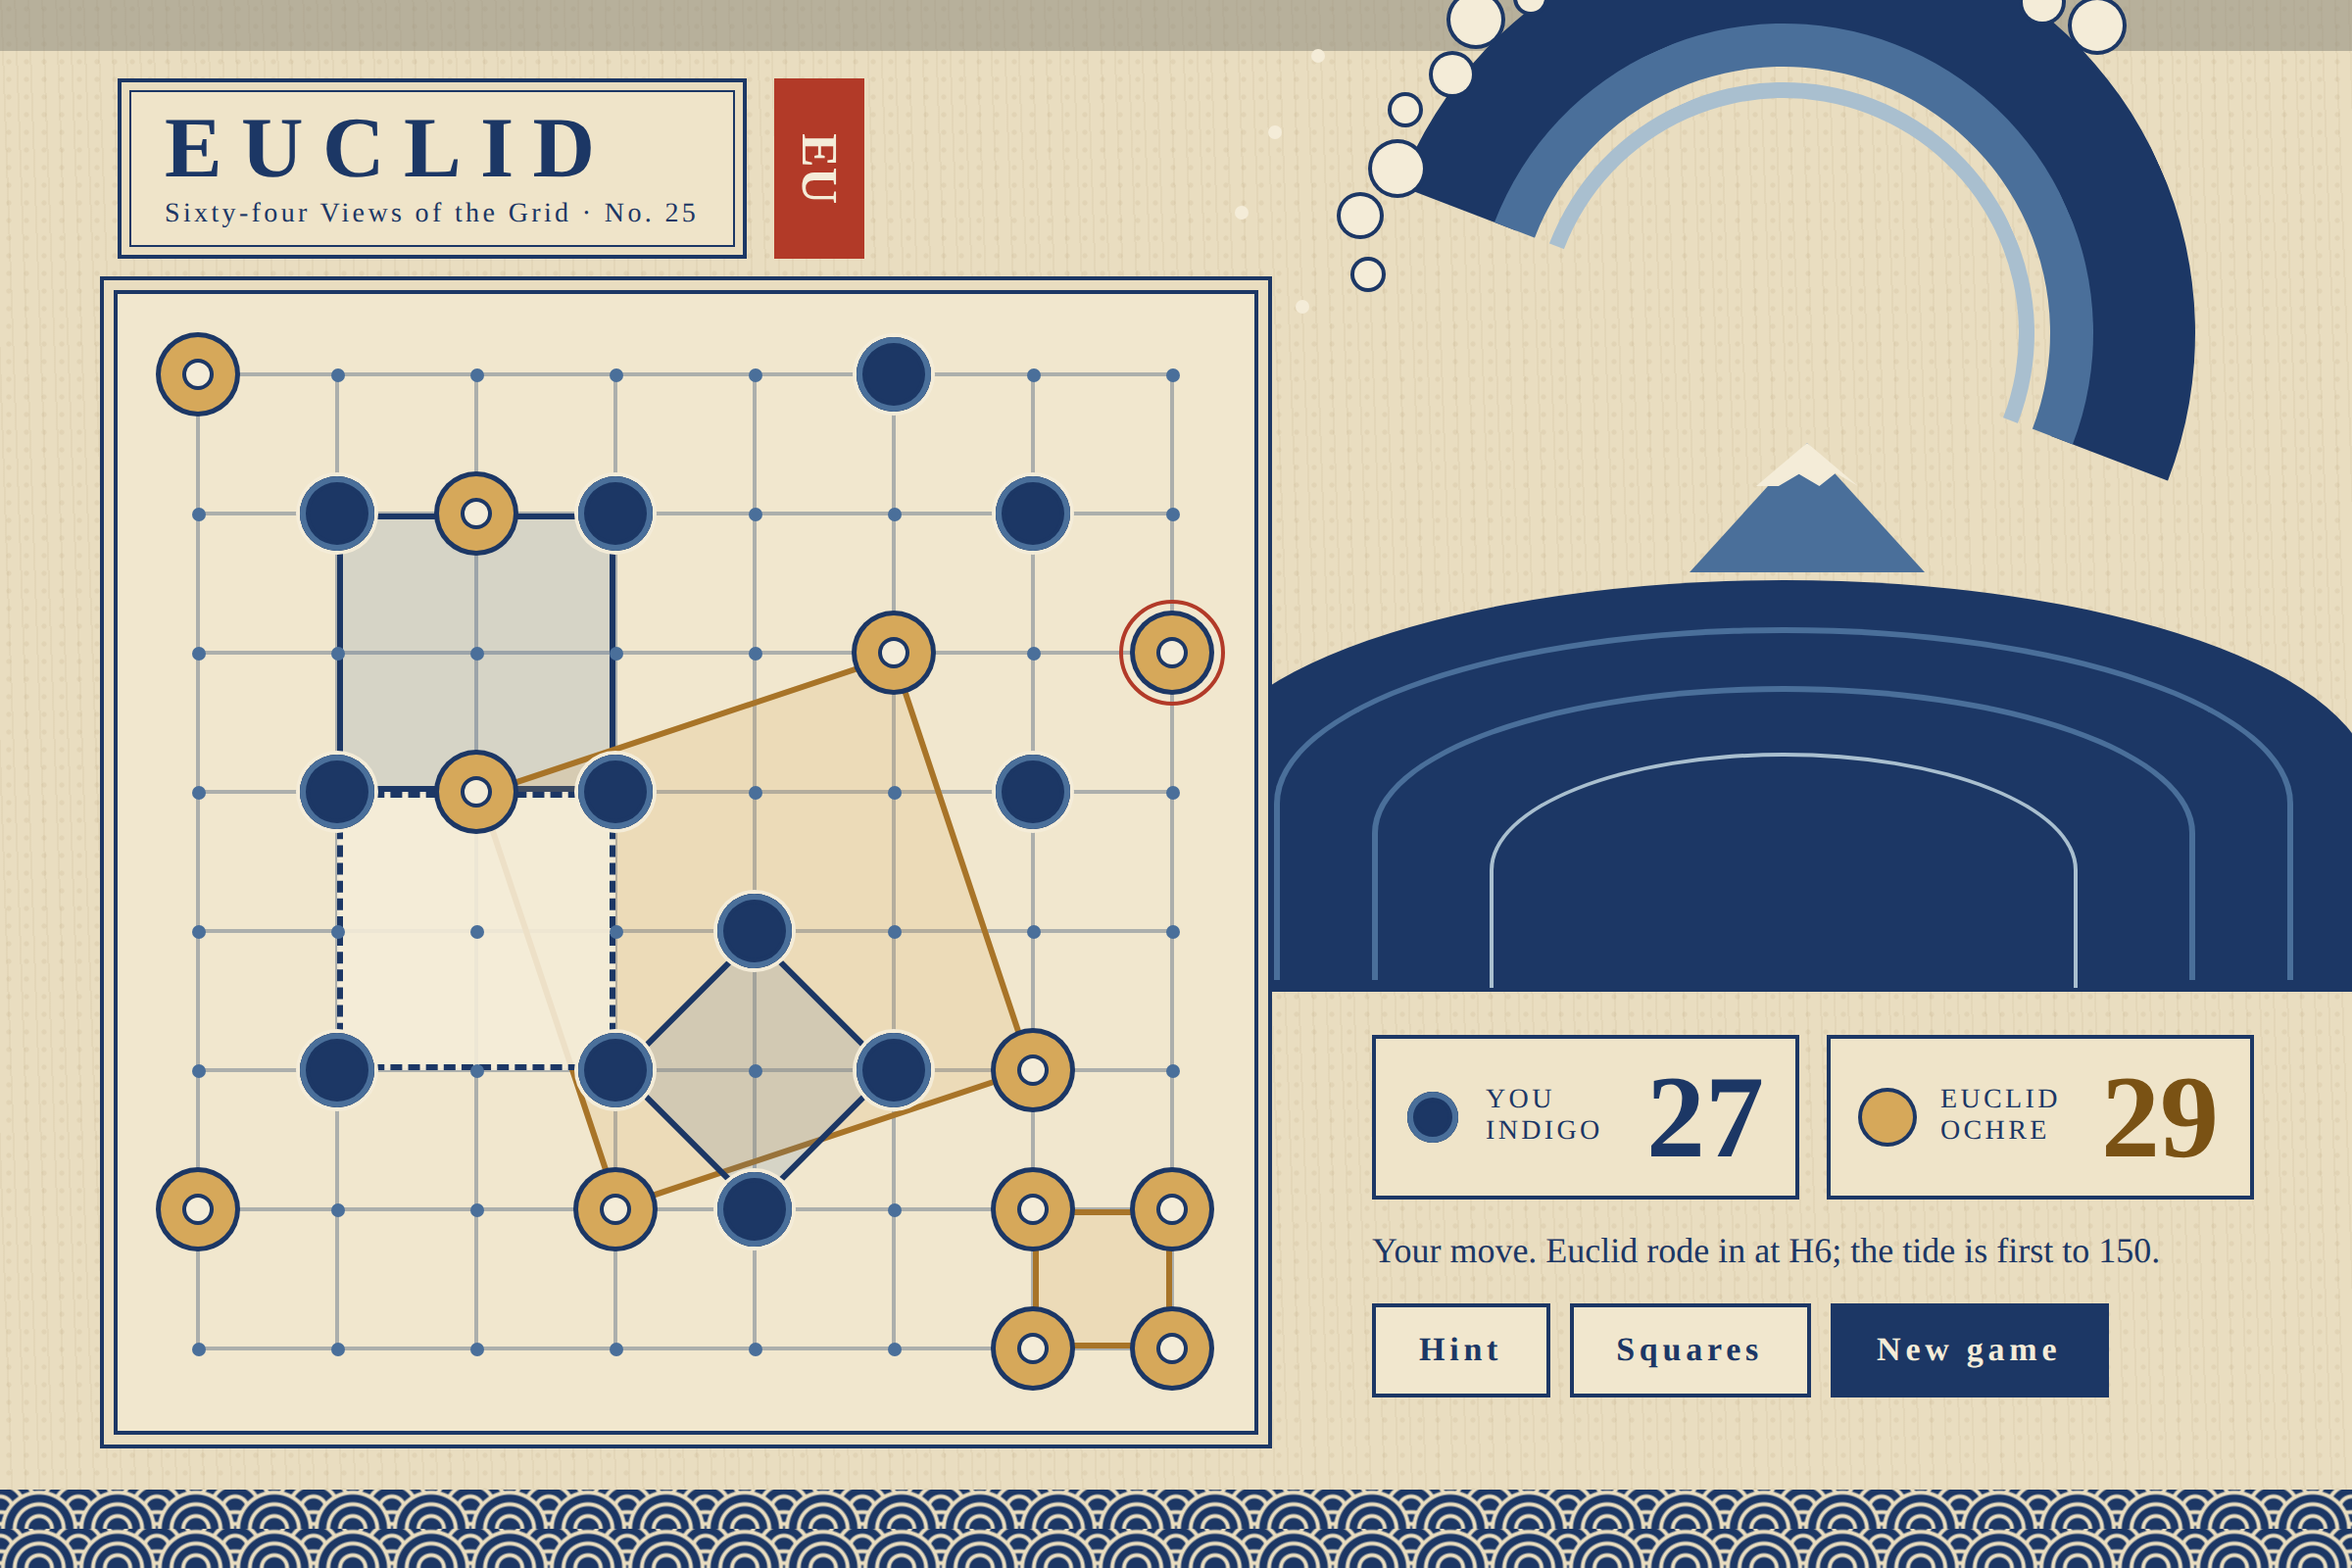
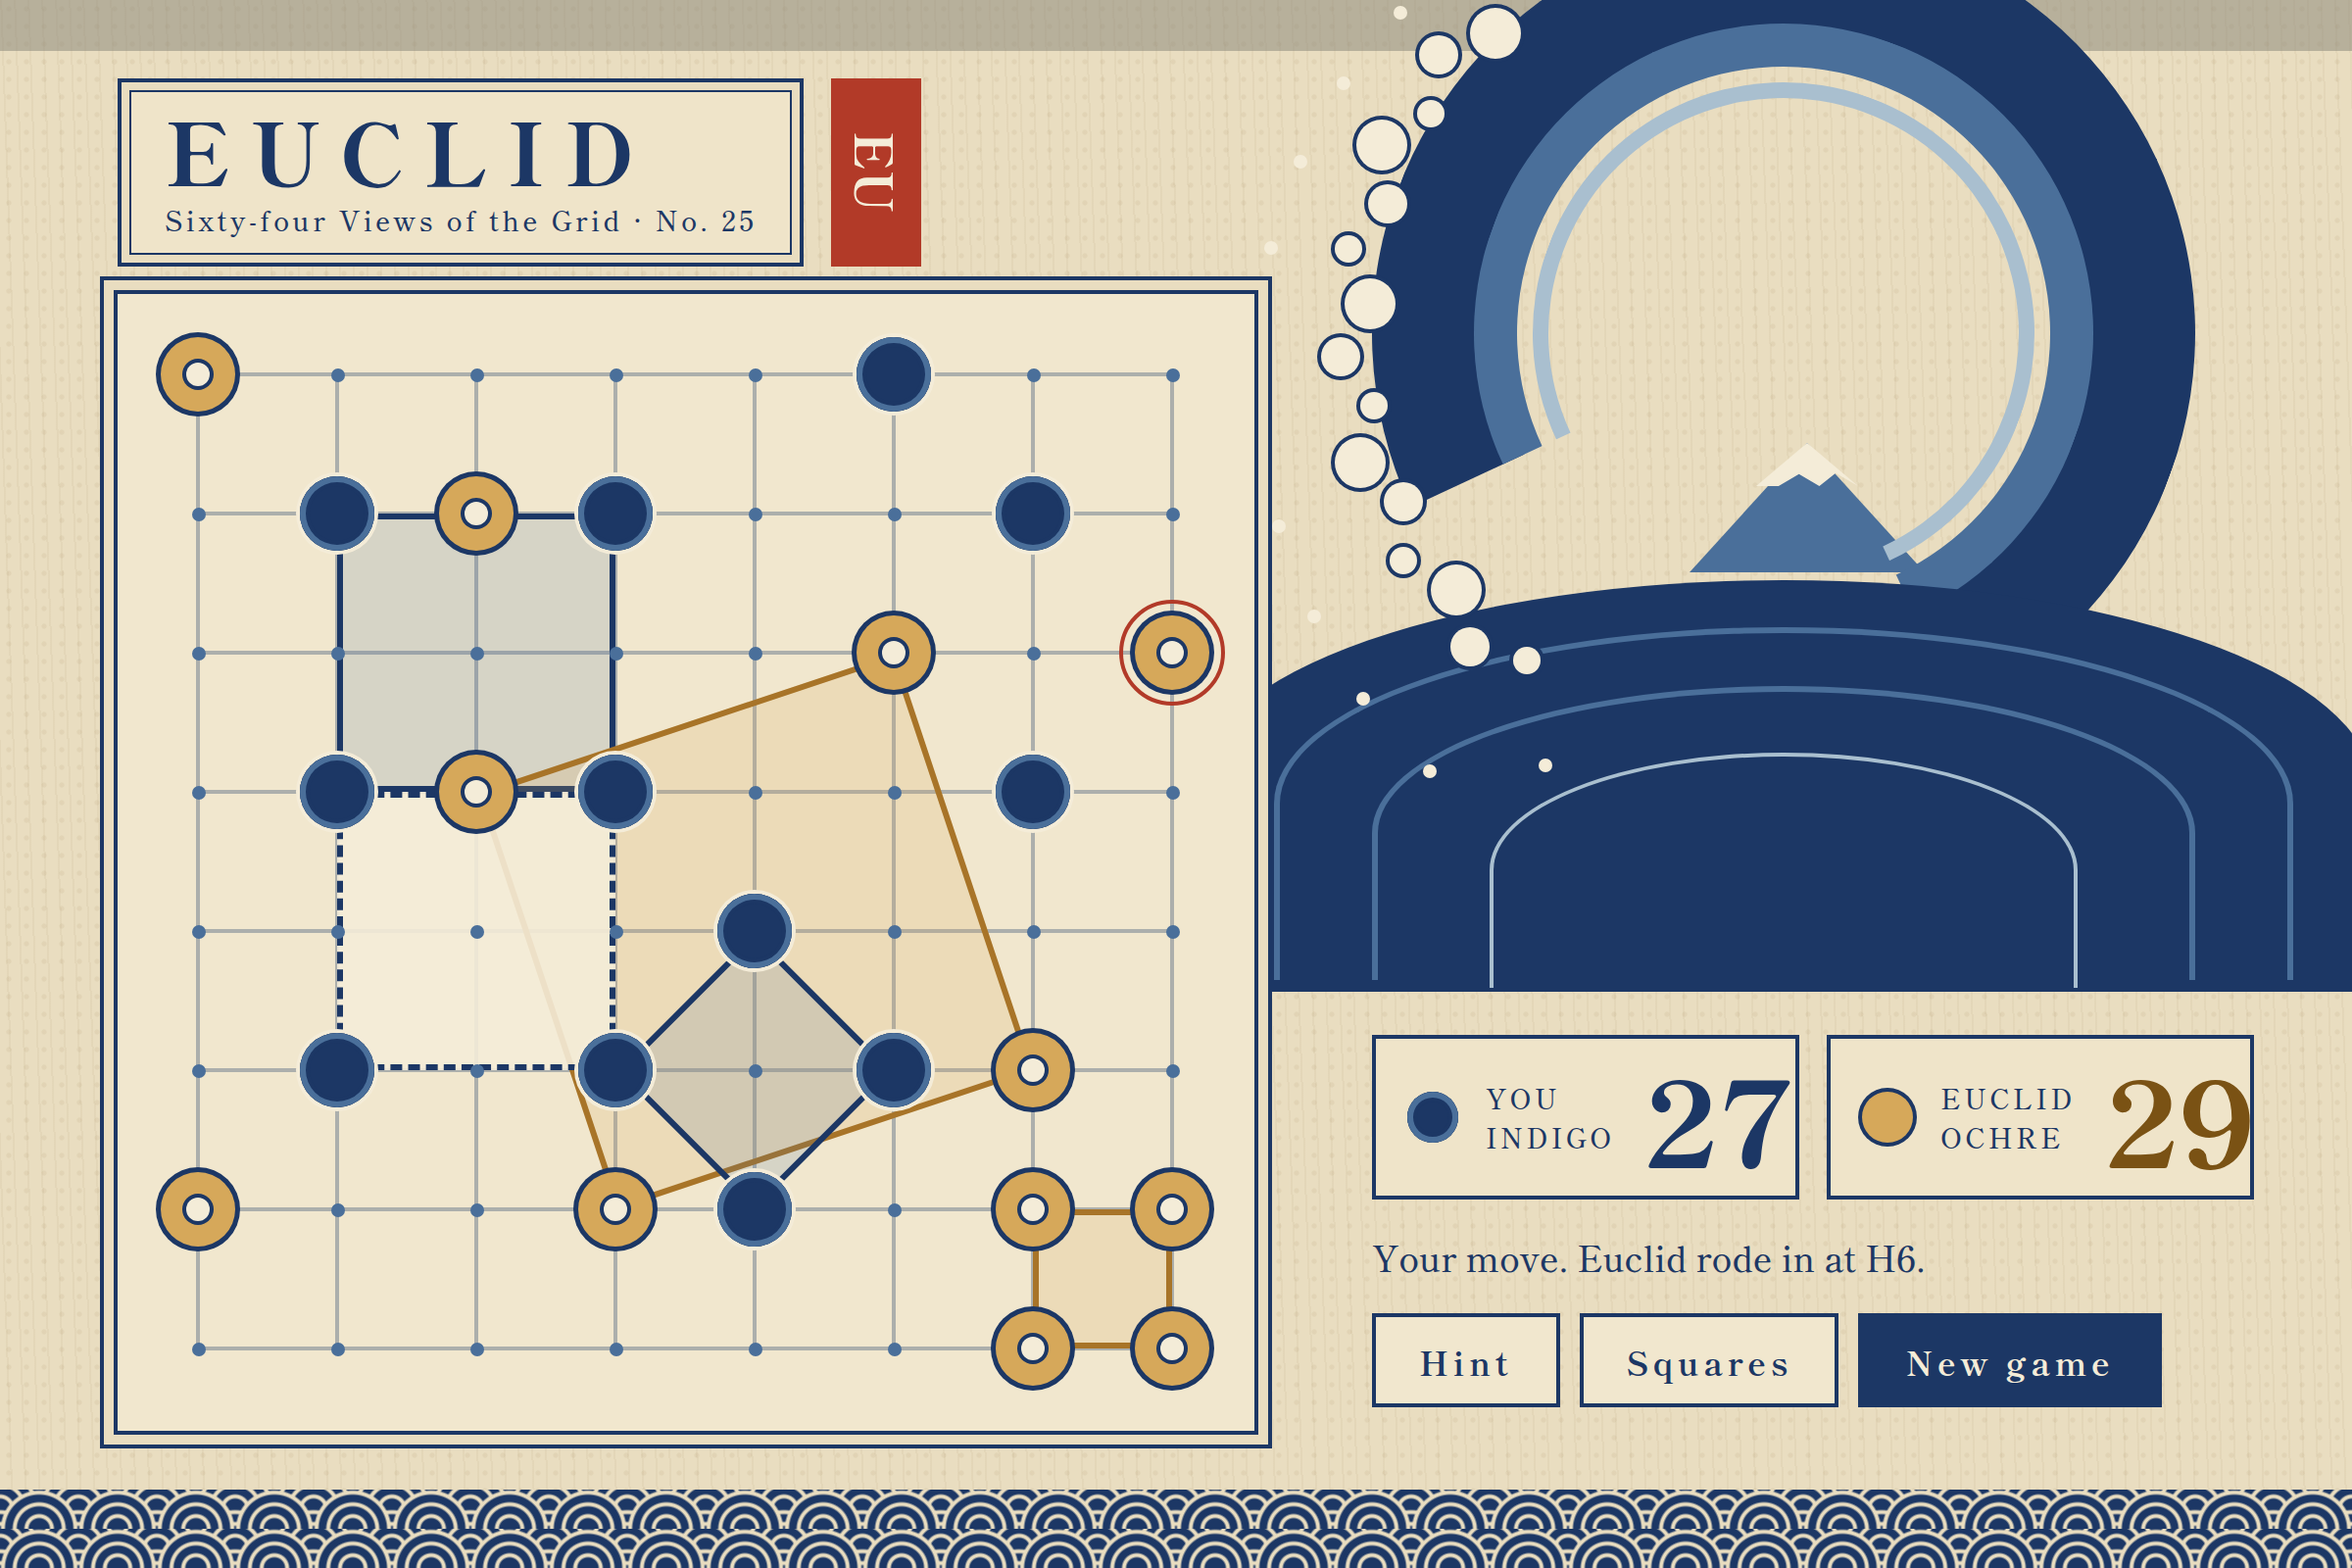
Turn the Great Wave arch into a breaking curl
The crest now rises from the swell, passes over Fuji and hooks down on
the left with its foam claws. Score chips keep their round markers, and
the status line fits on one row.

diff --git a/designs/source/11-great-wave.dc.html b/designs/source/11-great-wave.dc.html
@@ -26,9 +26,9 @@ a{color:#1C3765}a:hover{color:#B23A28}
   <div style="position: absolute; left: 862px; top: 226px; width: 120px; height: 66px; background: #4A6F9A; clip-path: polygon(50% 0, 100% 100%, 0 100%)"></div>
   <div style="position: absolute; left: 896px; top: 226px; width: 52px; height: 22px; background: #F4ECD8; clip-path: polygon(50% 0, 100% 100%, 78% 70%, 62% 100%, 42% 72%, 22% 100%, 0 100%)"></div>
 
-  <div style="position: absolute; left: 700px; top: -40px; width: 420px; height: 420px; border-radius: 50%; box-sizing: border-box; border: 64px solid #1C3765; border-bottom-color: transparent; border-left-color: transparent; transform: rotate(-24deg)"></div>
-  <div style="position: absolute; left: 752px; top: 12px; width: 316px; height: 316px; border-radius: 50%; box-sizing: border-box; border: 22px solid #4A6F9A; border-bottom-color: transparent; border-left-color: transparent; transform: rotate(-24deg)"></div>
-  <div style="position: absolute; left: 782px; top: 42px; width: 256px; height: 256px; border-radius: 50%; box-sizing: border-box; border: 8px solid #A9BFCF; border-bottom-color: transparent; border-left-color: transparent; transform: rotate(-24deg)"></div>
+  <div style="position: absolute; left: 700px; top: -40px; width: 420px; height: 420px; border-radius: 50%; box-sizing: border-box; border: 64px solid #1C3765; border-bottom-color: transparent; transform: rotate(20deg)"></div>
+  <div style="position: absolute; left: 752px; top: 12px; width: 316px; height: 316px; border-radius: 50%; box-sizing: border-box; border: 22px solid #4A6F9A; border-bottom-color: transparent; transform: rotate(20deg)"></div>
+  <div style="position: absolute; left: 782px; top: 42px; width: 256px; height: 256px; border-radius: 50%; box-sizing: border-box; border: 8px solid #A9BFCF; border-bottom-color: transparent; transform: rotate(20deg)"></div>
 
   <div style="position: absolute; left: 610px; top: 296px; width: 600px; height: 210px; border-radius: 50% 50% 0 0; background: #1C3765"></div>
   <div style="position: absolute; left: 650px; top: 320px; width: 520px; height: 180px; border-radius: 50% 50% 0 0; box-sizing: border-box; border: 3px solid #4A6F9A; border-bottom: 0"></div>
@@ -81,17 +81,17 @@ a{color:#1C3765}a:hover{color:#B23A28}
   <div style="position: absolute; left: 700px; top: 528px; width: 450px; display: flex; flex-direction: column; gap: 16px">
     <div style="display: grid; grid-template-columns: repeat(2, minmax(0, 1fr)); gap: 14px">
       <div style="border: 2px solid #1C3765; background: #EFE4C9; padding: 10px 16px; display: flex; align-items: center; gap: 14px">
-        <div style="width: 26px; height: 26px; border-radius: 50%; background: #1C3765; box-shadow: inset 0 0 0 3px #4A6F9A, inset 0 0 0 5px #1C3765"></div>
+        <div style="width: 26px; height: 26px; flex-shrink: 0; border-radius: 50%; background: #1C3765; box-shadow: inset 0 0 0 3px #4A6F9A, inset 0 0 0 5px #1C3765"></div>
         <div style="flex-grow: 1; font-size: 14px; letter-spacing: .12em">YOU<br>INDIGO</div>
         <div style="font-size: 60px; font-weight: 800; line-height: 1">27</div>
       </div>
       <div style="border: 2px solid #1C3765; background: #EFE4C9; padding: 10px 16px; display: flex; align-items: center; gap: 14px">
-        <div style="width: 26px; height: 26px; border-radius: 50%; background: #D6A85A; box-shadow: 0 0 0 2px #1C3765"></div>
+        <div style="width: 26px; height: 26px; flex-shrink: 0; border-radius: 50%; background: #D6A85A; box-shadow: 0 0 0 2px #1C3765"></div>
         <div style="flex-grow: 1; font-size: 14px; letter-spacing: .12em">EUCLID<br>OCHRE</div>
         <div style="font-size: 60px; font-weight: 800; line-height: 1; color: #7A5214">29</div>
       </div>
     </div>
-    <div style="font-size: 18px">Your move. Euclid rode in at H6; the tide is first to 150.</div>
+    <div style="font-size: 18px">Your move. Euclid rode in at H6.</div>
     <div style="display: flex; gap: 10px">
       <button class="wb">Hint</button>
       <button class="wb">Squares</button>
@@ -139,13 +139,13 @@ class Component extends DCLogic {
     // foam claws along the crest of the curl, centre (910,170)
     var foam = [], spray = [];
     for (var i = 0; i < 18; i++) {
-      var t = (-172 + i * 7.5) * Math.PI / 180;
-      var r = 214 + (i % 2 ? 10 : 0);
+      var t = (128 + i * 7) * Math.PI / 180;
+      var r = 212 + (i % 2 ? 14 : 0);
       var s = 14 + (i % 3) * 6;
       foam.push({ x: 910 + r * Math.cos(t), y: 170 + r * Math.sin(t), s: s, m: -s / 2 });
     }
     for (var j = 0; j < 14; j++) {
-      var u = (-176 + j * 9) * Math.PI / 180, rr = 250 + (j * 37 % 40);
+      var u = (120 + j * 10) * Math.PI / 180, rr = 250 + (j * 37 % 40);
       spray.push({ x: 910 + rr * Math.cos(u), y: 170 + rr * Math.sin(u) });
     }
     return { cells: L.cells, lines: L.lines, squares: L.squares, foam: foam, spray: spray };
